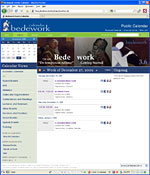
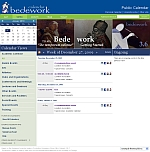
jump page: start to screenshots

diff --git a/deployment/resources/bedework/index.html b/deployment/resources/bedework/index.html
@@ -27,7 +27,7 @@
             </legend>
             <div class="webclient">
               <a href="/cal">
-                <img src="resources/content/mainCampus.jpg" width="150" height="175" alt="Public calendar suite" border="0"/>Main Campus
+                <img src="resources/content/mainCampus.jpg" width="150" height="152" alt="Public calendar suite" border="0"/>Main Campus
               </a>
             </div>
             <div class="webclient">
